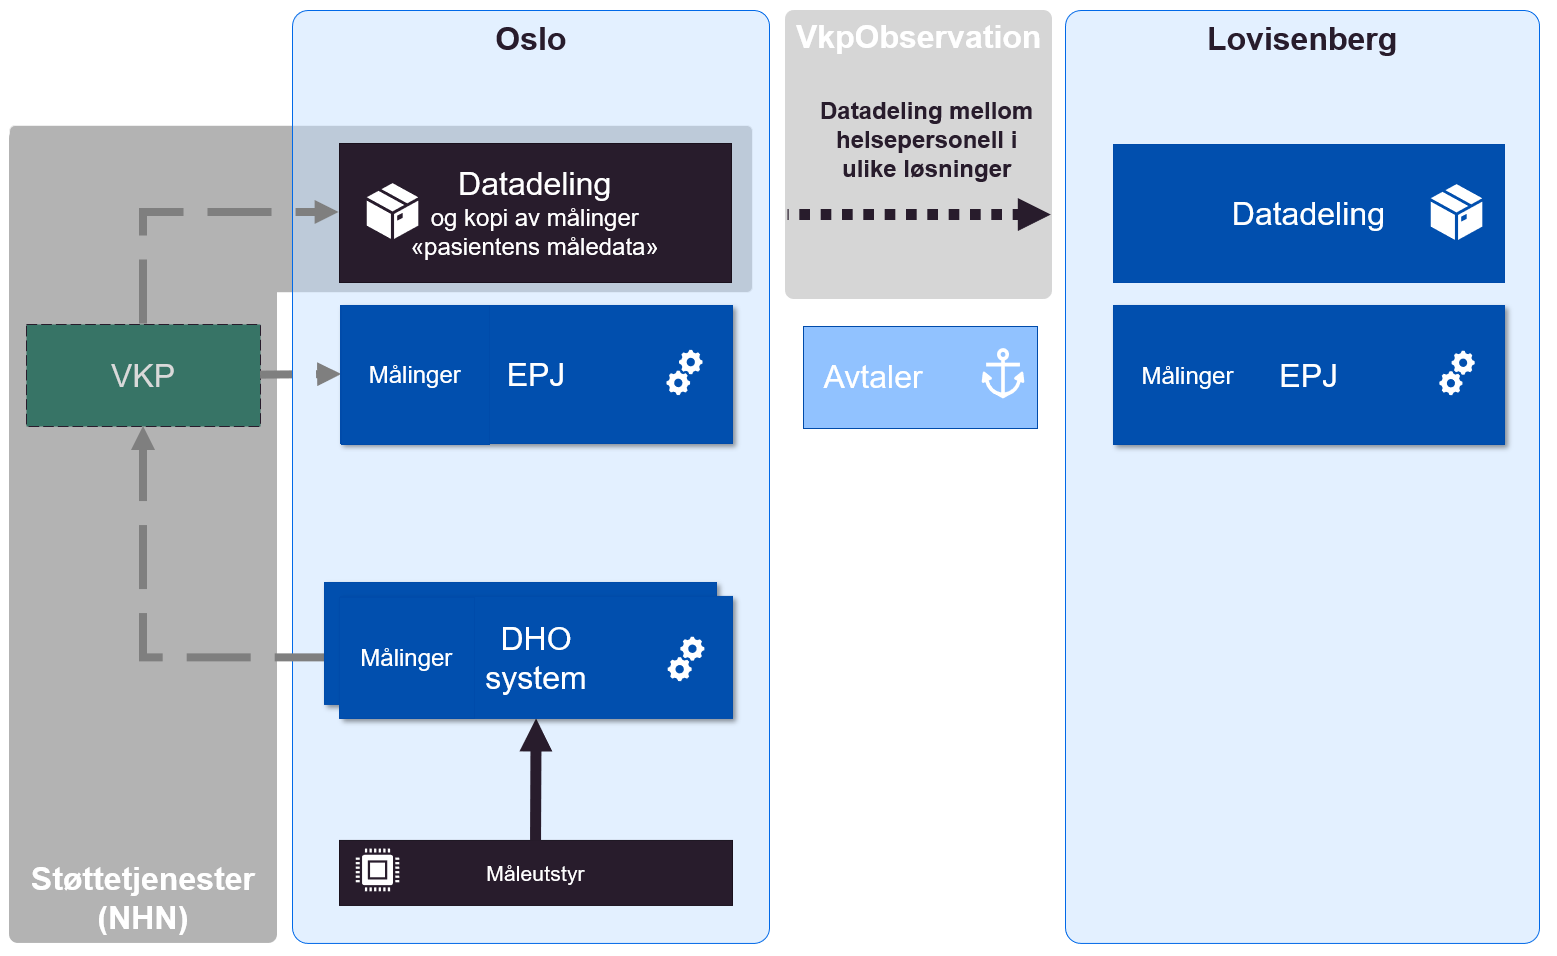
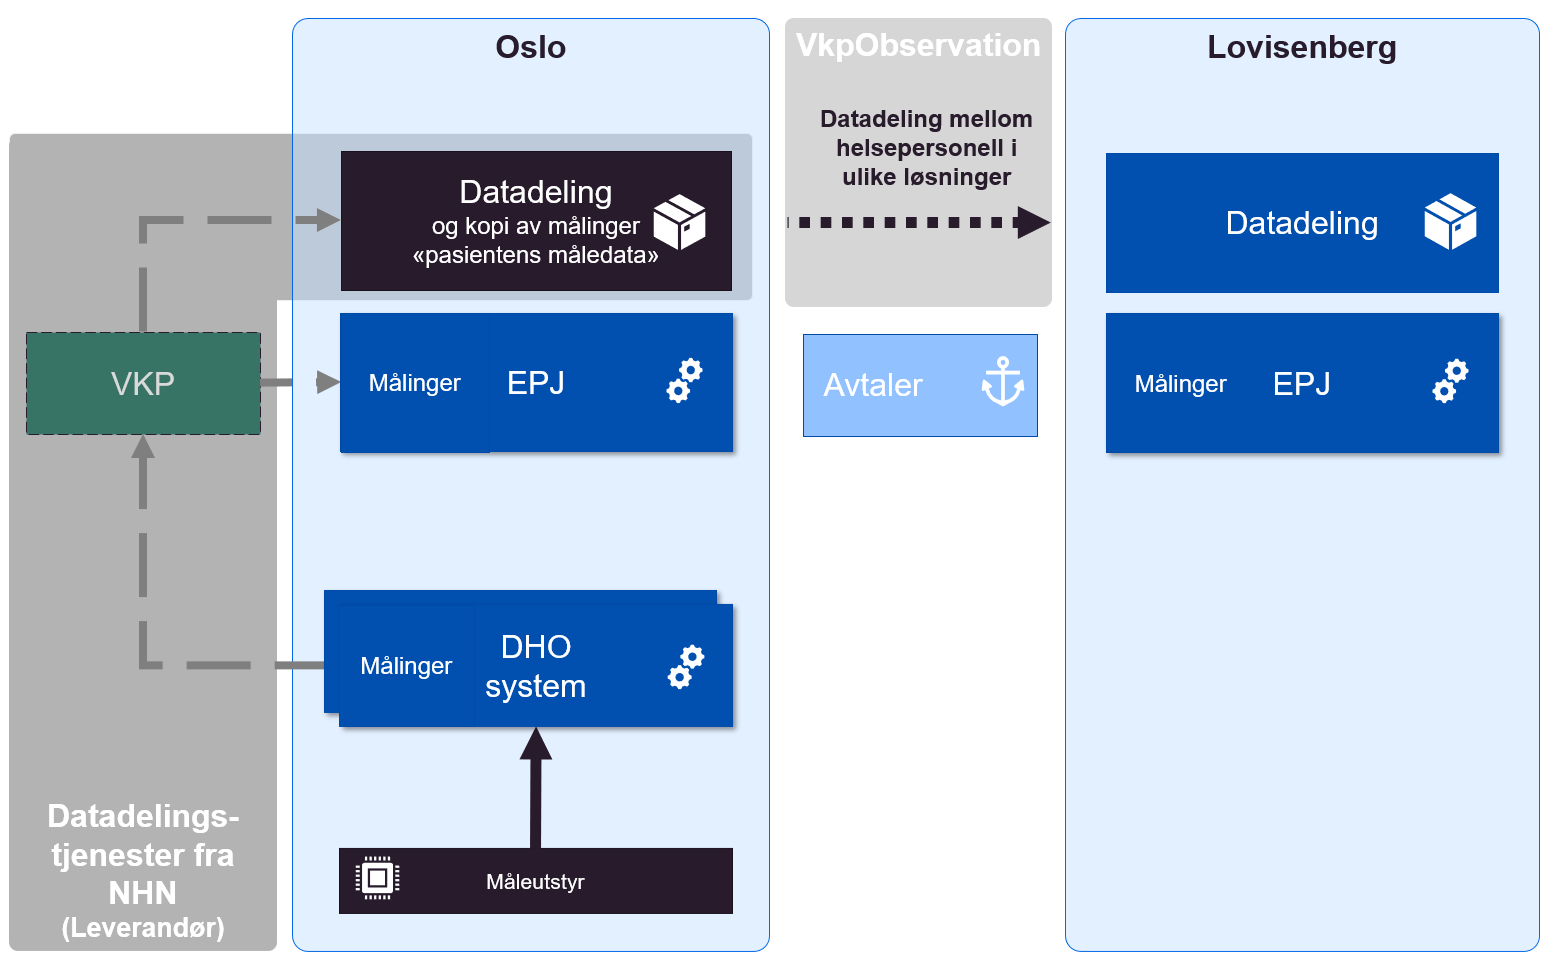
Endringer etter diskusjon med Oslo/NHN

diff --git a/docs/vedlegg/Eksempler.md b/docs/vedlegg/Eksempler.md
@@ -17,4 +17,6 @@ Oslo prøver ut datadeling til eksterne virksomheter kommunen samarbeider med i 
 
 Oslo kommune samler måledata som benyttes i oppfølging av pasienter som har DHO. Den daglige oppfølgingen gjennomføres i et dedikert DHO-system. Oslo har sammen med VKP (Velferdsteknologisk knutepunkt) utviklet en integrasjon mellom DHO-systemet og EPJ systemet via Velferdsteknologisk knutepunkt. Denne integrasjonen brukes blant annet til journalføring av hendelser som må dokumenteres i pasientens løpende journal i EPJ.  
 
-Målinger som ligger til grunn for oppfølging skal også dokumenteres i kommunens EPJ og disse journalføres på samme måte som journalnotater via integrasjon med VKP. NHN har i tillegg utviklet en løsning som kalles *Pasientens måledata* som kan høste alle måledata som sendes via VKP til EPJ og tilby oppslag mot disse fra eksterne virksomheter der klinikere har tjenstlig behov for informasjonen. Foreløpig er etablert avtale mellom Oslo kommune og Lovisenberg sykehus om oppslag mot dette grensesnittet. Innhold og struktur både for avlevering av måledata til VKP og ut fra Pasientens måledata gjennomføres ved hjelp av HL7 FHIR Observation ressurser. Det er utviklet FHIR profiler som beskriver struktur og innhold i detalj, disse profilene kalles VkpObservation i figuren.  
+Målinger som ligger til grunn for oppfølging skal også dokumenteres i kommunens EPJ og disse journalføres på samme måte som journalnotater via integrasjon med VKP. NHN har i tillegg utviklet en løsning som kalles *Pasientens måledata* som kan høste alle måledata som sendes via VKP til EPJ og tilby oppslag mot disse fra eksterne virksomheter (hvis klinikere har tjenstlig behov for informasjonen). Det må etableres avtale mellom Oslo kommune og de virksomhetene som er interessert i å slå opp i informasjon lagret i *pasientens måledata* om bruk av løsningen og tilgang til informasjonen. I eksempelet i figuren er dette illustrert med en avtale mellom Lovisenberg sykehus og Oslo kommune. Avtalen mellom Oslo og Lovisenberg er i skrivende stund ikke ferdigstilt.  
+
+Avlevering av måledata til VKP og ut fra *Pasientens måledata* følger en bestemt struktur og har definert innhold. Det er utviklet FHIR profiler som beskriver det detaljerte innholdet i detalj, disse profilene kalles VkpObservation i figuren og tar utgangspunkt i HL7 FHIR Observation.  

diff --git a/docs/kravoganbefalinger/index.md b/docs/kravoganbefalinger/index.md
@@ -31,7 +31,7 @@ Basert på  arkitekturvurderingene i dette kapittelet kombinert med identifisert
 
 **Behovene** peker tydelig på at datadeling er nødvendig for å realisere effektiv samhandling på DHO-området, samtidig er det tydelig at hoveddelen av samhandlingen foregår regionalt. Behovene understøtter derfor ikke behov for sentrale nasjonale løsninger for å løse samhandlingsbehovet innen DHO. De **juridiske vurderingene** peker på datadeling kan realiseres i form av distribuerte modeller og modeller basert på regionalt samarbeid innen for gjeldende rett.
 
-Datadeling mellom virksomhetene realiseres ved at virksomhetene etablerer grensesnitt for å avgi data til andre virksomheter enten som distribuerte løsninger (i egen eller sentral infrastruktur) eller gjennom regionale fellesløsninger innenfor et §9-samarbeid.
+Datadeling mellom virksomhetene realiseres ved at virksomhetene etablerer grensesnitt for å avgi data til andre virksomheter enten som distribuerte løsninger (i egen infrastruktur eller levert av leverandør) eller gjennom regionale fellesløsninger innenfor et §9-samarbeid.
 
 [![Anbefalt konsept for datadeling med kombinasjon av distribuerte datadelingsløsninger og regionale fellesløsninger](../img/malarkitektur.png)](../img/malarkitektur.png)  
 *Målarkitektur for datadeling basert på distribuerte eller regionale løsninger og nødvendige fellestjenester*
